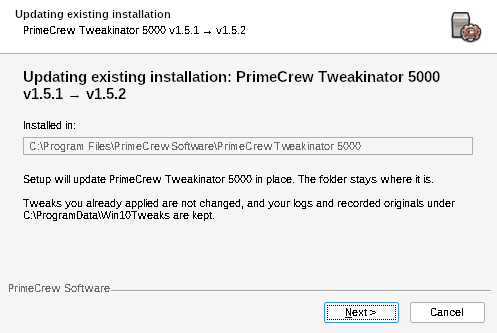
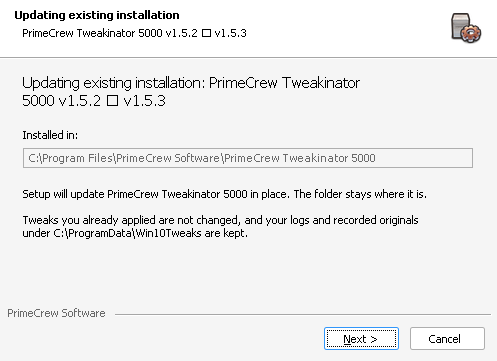
v1.5.3: branding alignment (plain app-name install folder for new installs, -setup.exe/-win64.zip names, copyright)

diff --git a/app/src/ops.rs b/app/src/ops.rs
@@ -585,12 +585,27 @@ fn paths_equal(a: &Path, b: &Path) -> bool {
     norm_win_path(a) == norm_win_path(b)
 }
 
-/// Official install location (`C:\Program Files\PrimeCrew Software\PrimeCrew Tweakinator 5000\...`).
-fn installed_exe() -> PathBuf {
-    PathBuf::from(std::env::var("ProgramFiles").unwrap_or_else(|_| r"C:\Program Files".into()))
-        .join("PrimeCrew Software")
-        .join("PrimeCrew Tweakinator 5000")
-        .join("PrimeCrewTweakinator5000.exe")
+/// Installed copies the SYSTEM restore task may run directly (Program Files is admin-only write):
+/// the InstallLocation recorded by the installer when it is under Program Files (an update is never moved,
+/// so this covers both layouts),
+/// the current default `C:\Program Files\PrimeCrew Tweakinator 5000\`, and the 1.2.0–1.5.2 default
+/// `C:\Program Files\PrimeCrew Software\PrimeCrew Tweakinator 5000\`.
+fn installed_exe_candidates() -> Vec<PathBuf> {
+    const EXE: &str = "PrimeCrewTweakinator5000.exe";
+    let pf = PathBuf::from(std::env::var("ProgramFiles").unwrap_or_else(|_| r"C:\Program Files".into()));
+    let mut v = vec![];
+    if let Some(loc) = sys::reg_get(r"HKLM:\SOFTWARE\Microsoft\Windows\CurrentVersion\Uninstall\PrimeCrewTweakinator5000", "InstallLocation").as_text() {
+        let loc = loc.trim().trim_matches('"').trim_end_matches('\\').to_string();
+        // Only trust it under Program Files (admin-only write). A custom folder elsewhere may be
+        // user-writable, so a SYSTEM task must not run it; that case uses the staging copy instead.
+        let pf_key = format!("{}\\", norm_win_path(&pf));
+        if !loc.is_empty() && norm_win_path(Path::new(&loc)).starts_with(&pf_key) {
+            v.push(PathBuf::from(loc).join(EXE));
+        }
+    }
+    v.push(pf.join("PrimeCrew Tweakinator 5000").join(EXE));
+    v.push(pf.join("PrimeCrew Software").join("PrimeCrew Tweakinator 5000").join(EXE));
+    v
 }
 
 /// Staging path used by earlier builds, and by a portable run of this build.
@@ -601,19 +616,17 @@ fn legacy_restore_task_exe() -> PathBuf {
         .join("win10_tweaks.exe")
 }
 
-fn running_from_install() -> bool {
-    std::env::current_exe().ok().is_some_and(|p| paths_equal(&p, &installed_exe()))
+/// The installed exe this process is running from, if any (either install layout).
+fn running_installed_exe() -> Option<PathBuf> {
+    let me = std::env::current_exe().ok()?;
+    installed_exe_candidates().into_iter().find(|c| paths_equal(&me, c) && c.exists())
 }
 
 /// Exe the SYSTEM restore task should run.
-/// Installed copy: point at the installed exe (Program Files is admin-only write).
+/// Installed copy: point at the installed exe (Program Files is admin-only write), whichever layout it is in.
 /// Portable / other: copy to the legacy staging path so older timers and this flow stay compatible.
 fn restore_task_exe() -> PathBuf {
-    if running_from_install() {
-        installed_exe()
-    } else {
-        legacy_restore_task_exe()
-    }
+    running_installed_exe().unwrap_or_else(legacy_restore_task_exe)
 }
 
 /// One-shot SYSTEM task that runs the restore exe with --restore-wu-kill at `at`.

diff --git a/app/src/help.rs b/app/src/help.rs
@@ -698,8 +698,8 @@ Before you uninstall
 • If a Temporary allow timer is still running, click Restore update kill first. The timer’s SYSTEM task runs the installed exe; uninstalling without restoring can leave that task pointing at a missing file.
 
 How to uninstall
-• Use Add/Remove Programs, or uninstall.exe in the install folder (C:\\Program Files\\PrimeCrew Software\\PrimeCrew Tweakinator 5000\\).
-• That removes the app, its Start menu shortcut, and the Add/Remove Programs entry. The PrimeCrew Software Start menu folder is removed only if it is empty. The parent Program Files\\PrimeCrew Software folder is left in place if other PrimeCrew Software apps are installed there.
+• Use Add/Remove Programs, or uninstall.exe in the install folder (C:\\Program Files\\PrimeCrew Tweakinator 5000\\ for new installs; installs from 1.5.2 or earlier stay in C:\\Program Files\\PrimeCrew Software\\PrimeCrew Tweakinator 5000\\).
+• That removes the app, its Start menu shortcut, and the Add/Remove Programs entry. The PrimeCrew Software Start menu folder is removed only if it is empty. For an older install in Program Files\\PrimeCrew Software, that parent folder is removed only if it is empty.
 
 The portable zip has no uninstaller: delete the folder you unzipped. The same rule applies — deleting the exe does not revert tweaks. If a portable temporary-allow timer is still running, click Restore update kill first.
 ";

diff --git a/app/build.rs b/app/build.rs
@@ -29,7 +29,7 @@ fn main() {
     res.set("FileVersion", &ver4);
     res.set("ProductVersion", &ver4);
     res.set("CompanyName", "PrimeCrew Software");
-    res.set("LegalCopyright", "PrimeCrew Software");
+    res.set("LegalCopyright", "Copyright (C) 2026 PrimeCrew Software");
     res.compile().expect("winres: failed to compile Windows resources (manifest + icon)");
     // GNU/LLVM linkers drop unreferenced archive members, which silently loses the manifest.
     // Link the compiled resource object directly so the requireAdministrator manifest is always embedded.

diff --git a/README.md b/README.md
@@ -6,30 +6,30 @@ PrimeCrew Tweakinator 5000 is a small Windows 10 utility from **PrimeCrew Softwa
 
 ## Download
 
-Get the latest files from the **[Releases page](https://github.com/primecrew/primecrew-tweakinator-5000/releases/latest)** (no GitHub account needed). The current release is **v1.5.2**.
+Get the latest files from the **[Releases page](https://github.com/primecrew/primecrew-tweakinator-5000/releases/latest)** (no GitHub account needed). The current release is **v1.5.3**.
 
-- **Installer version (recommended)** — [PrimeCrewTweakinator5000-v1.5.2-x64-Setup.exe](https://github.com/primecrew/primecrew-tweakinator-5000/releases/download/v1.5.2/PrimeCrewTweakinator5000-v1.5.2-x64-Setup.exe)  
+- **Installer version (recommended)** — [PrimeCrewTweakinator5000-v1.5.3-setup.exe](https://github.com/primecrew/primecrew-tweakinator-5000/releases/download/v1.5.3/PrimeCrewTweakinator5000-v1.5.3-setup.exe)  
   A normal setup. It adds a Start menu entry under PrimeCrew Software and appears in Add/Remove Programs.
 
-- **Portable version (no install) — [PrimeCrewTweakinator5000-v1.5.2.zip](https://github.com/primecrew/primecrew-tweakinator-5000/releases/download/v1.5.2/PrimeCrewTweakinator5000-v1.5.2.zip)**  
+- **Portable version (no install) — [PrimeCrewTweakinator5000-v1.5.3-win64.zip](https://github.com/primecrew/primecrew-tweakinator-5000/releases/download/v1.5.3/PrimeCrewTweakinator5000-v1.5.3-win64.zip)**  
   Unzip anywhere, run `PrimeCrewTweakinator5000.exe`. Nothing gets installed, and you can run it from a USB stick.
 
 **Requirements:** Windows 10 64-bit (aimed at Pro 22H2). The app asks for administrator permission (a UAC prompt) when you run it. The GUI needs a GPU/driver with OpenGL 2+ (normal on real hardware; may fail in a bare VM or some RDP sessions). No extra runtime. The app contains no network code and sends no telemetry.
 
 The exe is unsigned, so Windows SmartScreen may say “Windows protected your PC.” Click **More info**, then **Run anyway**.
 
-**Installer details:** the setup is 64-bit only. The app is installed to `C:\Program Files\PrimeCrew Software\PrimeCrew Tweakinator 5000\`. An upgrade removes previous shortcuts first so they do not duplicate.
+**Installer details:** the setup is 64-bit only. A new installation goes to `C:\Program Files\PrimeCrew Tweakinator 5000\` by default. An existing installation (including one from 1.5.2 or earlier in `C:\Program Files\PrimeCrew Software\PrimeCrew Tweakinator 5000\`) is updated where it is and never moved. The Start menu entry stays in the **PrimeCrew Software** folder. An upgrade removes previous shortcuts first so they do not duplicate.
 
 The installer says plainly what it is about to do. A **new installation** shows “New installation” with an editable **Install to:** path and a Browse button. When the app is already installed (found through its Add/Remove Programs entry: version and install location), the first page and the Ready to Install page show **“Updating existing installation: PrimeCrew Tweakinator 5000 v<old> → v<new>”** with a read-only **Installed in:** path. An update is never moved; it always goes into the existing folder (a silent `/D=` is ignored on an update). The last page says “Installed v<new> to <path>” or “Updated to v<new> in <path>”.
 
 | New installation | Updating an existing installation |
 |---|---|
 | ![New installation page with an editable Install to path and Browse button](docs/screenshots/10-installer-new.png) | ![Updating existing installation banner with a read-only Installed in path](docs/screenshots/12-installer-update.png) |
-| ![Installation complete: Installed v1.5.2 to the chosen path](docs/screenshots/11-installer-new-finish.png) | ![Update complete: Updated to v1.5.2 in the existing path](docs/screenshots/14-installer-update-finish.png) |
+| ![Installation complete: Installed v1.5.3 to the chosen path](docs/screenshots/11-installer-new-finish.png) | ![Update complete: Updated to v1.5.3 in the existing path](docs/screenshots/14-installer-update-finish.png) |
 
 **Portable details:** unzip and run `PrimeCrewTweakinator5000.exe` from any folder (for example `C:\Apps\PrimeCrewTweakinator5000\` or a USB stick).
 
-**Uninstall:** use Add/Remove Programs or `uninstall.exe` in the install folder. Uninstalling removes the app, its Start menu shortcut, and the Add/Remove Programs entry. It does **not** revert any tweaks you applied, and it does **not** delete logs, recorded originals, or backups under `C:\ProgramData\Win10Tweaks`. Revert stays an in-app action: if you want your previous Windows settings back, run the app and click **Revert** before uninstalling. The uninstaller also shows this note. The **PrimeCrew Software** Start menu folder is removed only if it is empty. The parent `C:\Program Files\PrimeCrew Software` folder is left in place if other PrimeCrew Software apps are installed there.
+**Uninstall:** use Add/Remove Programs or `uninstall.exe` in the install folder. Uninstalling removes the app, its Start menu shortcut, and the Add/Remove Programs entry. It does **not** revert any tweaks you applied, and it does **not** delete logs, recorded originals, or backups under `C:\ProgramData\Win10Tweaks`. Revert stays an in-app action: if you want your previous Windows settings back, run the app and click **Revert** before uninstalling. The uninstaller also shows this note. The **PrimeCrew Software** Start menu folder is removed only if it is empty. For an older install that lives in `C:\Program Files\PrimeCrew Software\`, that parent folder is removed only if it is empty (other PrimeCrew Software apps may be there).
 
 **Compatibility:** state, logs and backups stay under `C:\ProgramData\Win10Tweaks\` (logs in `Logs\`, state in `state.json`, UI prefs in `ui.json`, temporary-allow state in `tempallow.json`, temp files scheduled for the next restart in `tempclean-pending.json`). Scheduled task and firewall rule names still use the `Win10Tweaks-*` prefix, so this release continues to manage tweaks applied by earlier builds. Version history is in [CHANGELOG.md](CHANGELOG.md).
 
@@ -252,8 +252,9 @@ Output: `app/target/x86_64-pc-windows-gnullvm/release/PrimeCrewTweakinator5000.e
 Release artifacts:
 
 ```
-PrimeCrewTweakinator5000-v1.5.2-x64-Setup.exe
-PrimeCrewTweakinator5000-v1.5.2.zip
+PrimeCrewTweakinator5000-v1.5.3-setup.exe
+PrimeCrewTweakinator5000-v1.5.3-win64.zip
+PrimeCrewTweakinator5000-v1.5.3-SHA256SUMS.txt
   PrimeCrewTweakinator5000/PrimeCrewTweakinator5000.exe
   PrimeCrewTweakinator5000/README.md
 ```

diff --git a/CHANGELOG.md b/CHANGELOG.md
@@ -2,6 +2,16 @@
 
 User-facing history for PrimeCrew Tweakinator 5000.
 
+## 1.5.3
+
+- Branding alignment with the other PrimeCrew Software apps. The app name stays PrimeCrew Tweakinator 5000.
+- New installations go to `C:\Program Files\PrimeCrew Tweakinator 5000\` by default (no PrimeCrew Software parent folder). Existing installations are found through their Add/Remove Programs entry and updated where they are, never moved; the “Updating existing installation” banner and read-only “Installed in:” path work for both layouts. The Start menu entry stays in the PrimeCrew Software folder and the Publisher stays PrimeCrew Software.
+- Uninstall removes only the app's own folder, plus an empty `Program Files\PrimeCrew Software` parent folder only for an installation in the old layout.
+- The Temporary allow restore timer finds the installed exe in either layout (the install location recorded by the installer, when it is under Program Files). A portable run still uses the staged copy.
+- Download names: `PrimeCrewTweakinator5000-v1.5.3-setup.exe` and `PrimeCrewTweakinator5000-v1.5.3-win64.zip`.
+- Copyright: LICENSE starts with “Copyright (C) 2026 PrimeCrew Software”, which is also the exe's LegalCopyright. Cargo authors = PrimeCrew Software.
+- Unchanged on purpose: `C:\ProgramData\Win10Tweaks`, and the `Win10Tweaks-*` task and firewall rule names.
+
 ## 1.5.2
 
 - Installer: the first page now says clearly whether this is a **New installation** (editable “Install to:” path with Browse) or an update. An update is detected from the existing Add/Remove Programs entry (version and install location, with the program still in that folder) and shows “Updating existing installation: PrimeCrew Tweakinator 5000 v<old> → v<new>” with a read-only “Installed in:” path. The same banner and path appear on a new Ready to Install page.
